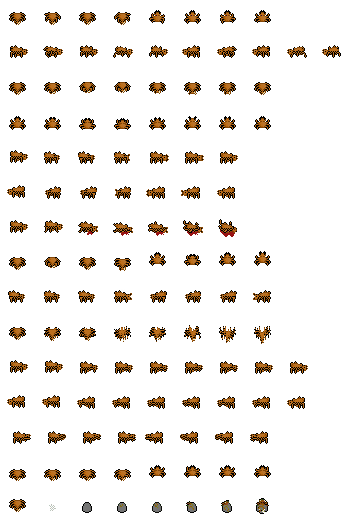
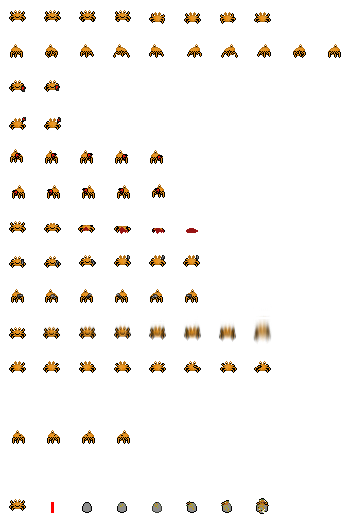
Modifying Crab sprite set

diff --git a/Changelog.md b/Changelog.md
@@ -2,6 +2,13 @@
 
 All notable changes to this project will be documented in this file.
 
+## [Unreleased]
+
+### Changed
+
+- Modified Crab sprite set and added ranged attack
+
+
 ## [1.0.21] - 2026-03-29
 
 ### Added
